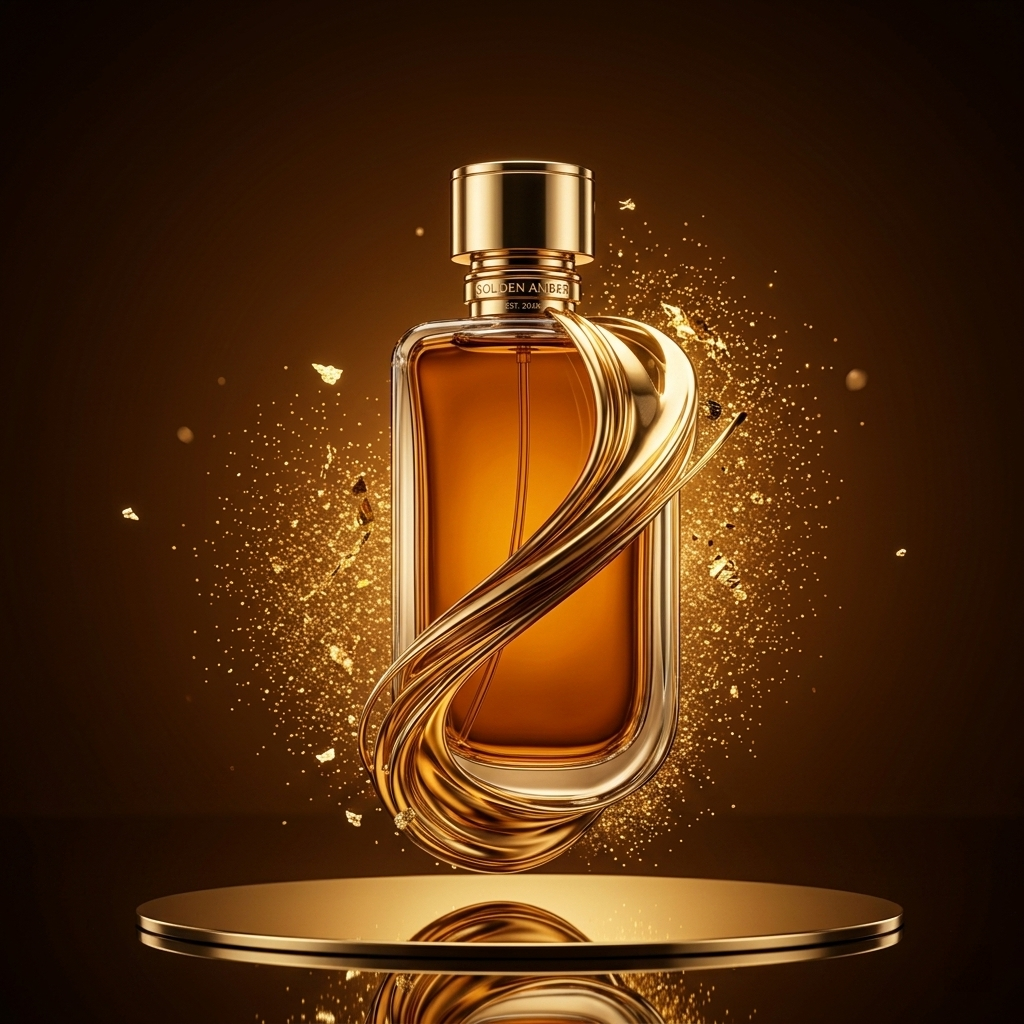
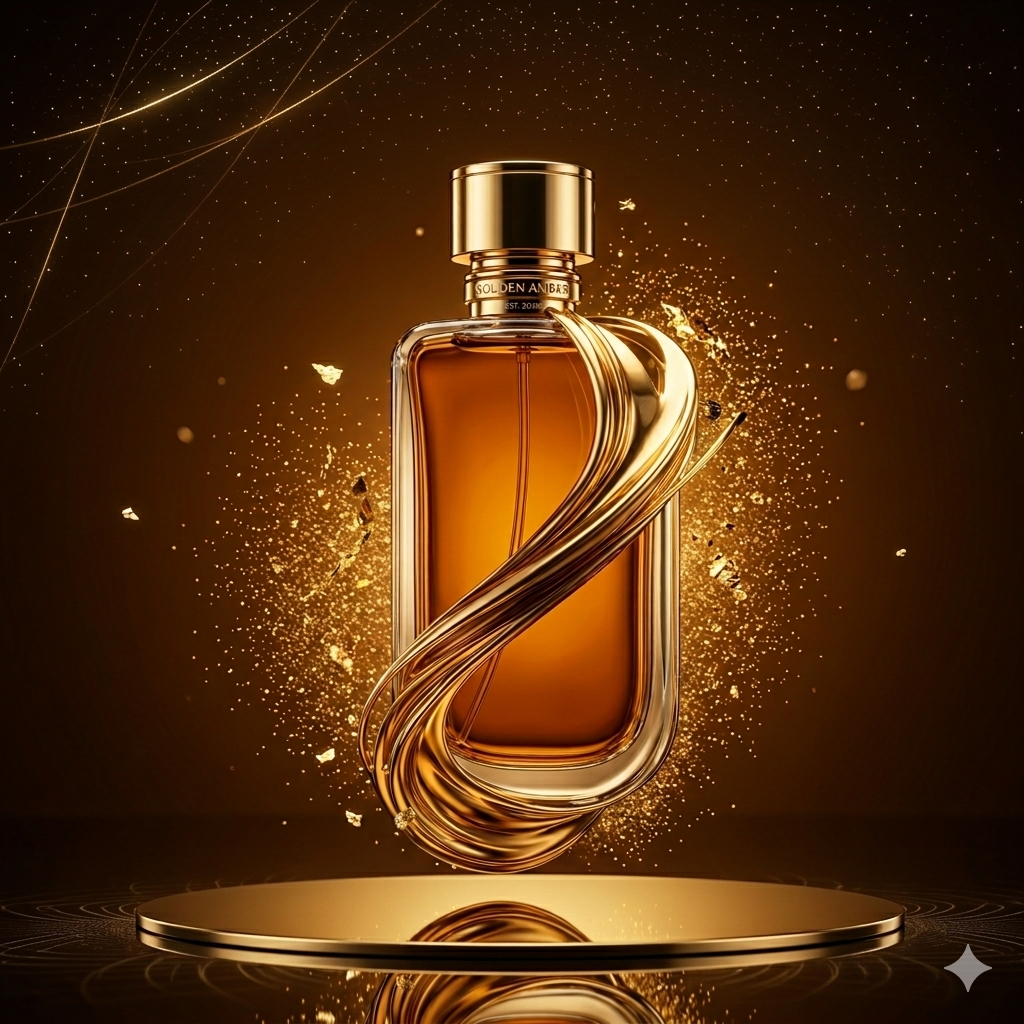
udpate navbar

diff --git a/app/globals.css b/app/globals.css
@@ -51,10 +51,10 @@
 }
 
 .glass {
-  background: rgba(255, 255, 255, 0.03) !important;
-  background-color: rgba(0, 0, 0, 0.15) !important;
-  -webkit-backdrop-filter: blur(20px) saturate(120%) !important;
-  backdrop-filter: blur(20px) saturate(120%) !important;
+  background: rgba(255, 255, 255, 0.01) !important;
+  background-color: rgba(0, 0, 0, 0.05) !important;
+  -webkit-backdrop-filter: blur(40px) saturate(180%) !important;
+  backdrop-filter: blur(40px) saturate(180%) !important;
   border-bottom: 1px solid #D4AF3733 !important;
   box-shadow: inset 0 0 0 1px rgba(255, 255, 255, 0.05) !important;
   transform: translateZ(0) !important;

diff --git a/app/blend/page.tsx b/app/blend/page.tsx
@@ -14,7 +14,7 @@ export default function BlendPage() {
     <>
       <Navbar />
       
-      <main className="min-h-screen pt-20">
+      <main className="min-h-screen pt-0">
         <BlendHero />
         <AnatomyOfScent />
         <PremiumFormulas />

diff --git a/components/blend/BlendHero.tsx b/components/blend/BlendHero.tsx
@@ -9,7 +9,7 @@ export default function BlendHero() {
           src="/blendhero.png"
           alt="Blend Background"
           fill
-          className="object-cover opacity-60"
+          className="object-cover opacity-70"
           priority
         />
         <div className="absolute inset-0" style={{ background: "linear-gradient(180deg, rgba(18, 20, 20, 0) 0%, rgba(18, 20, 20, 0.6) 50%, #121414 100%)" }}></div>